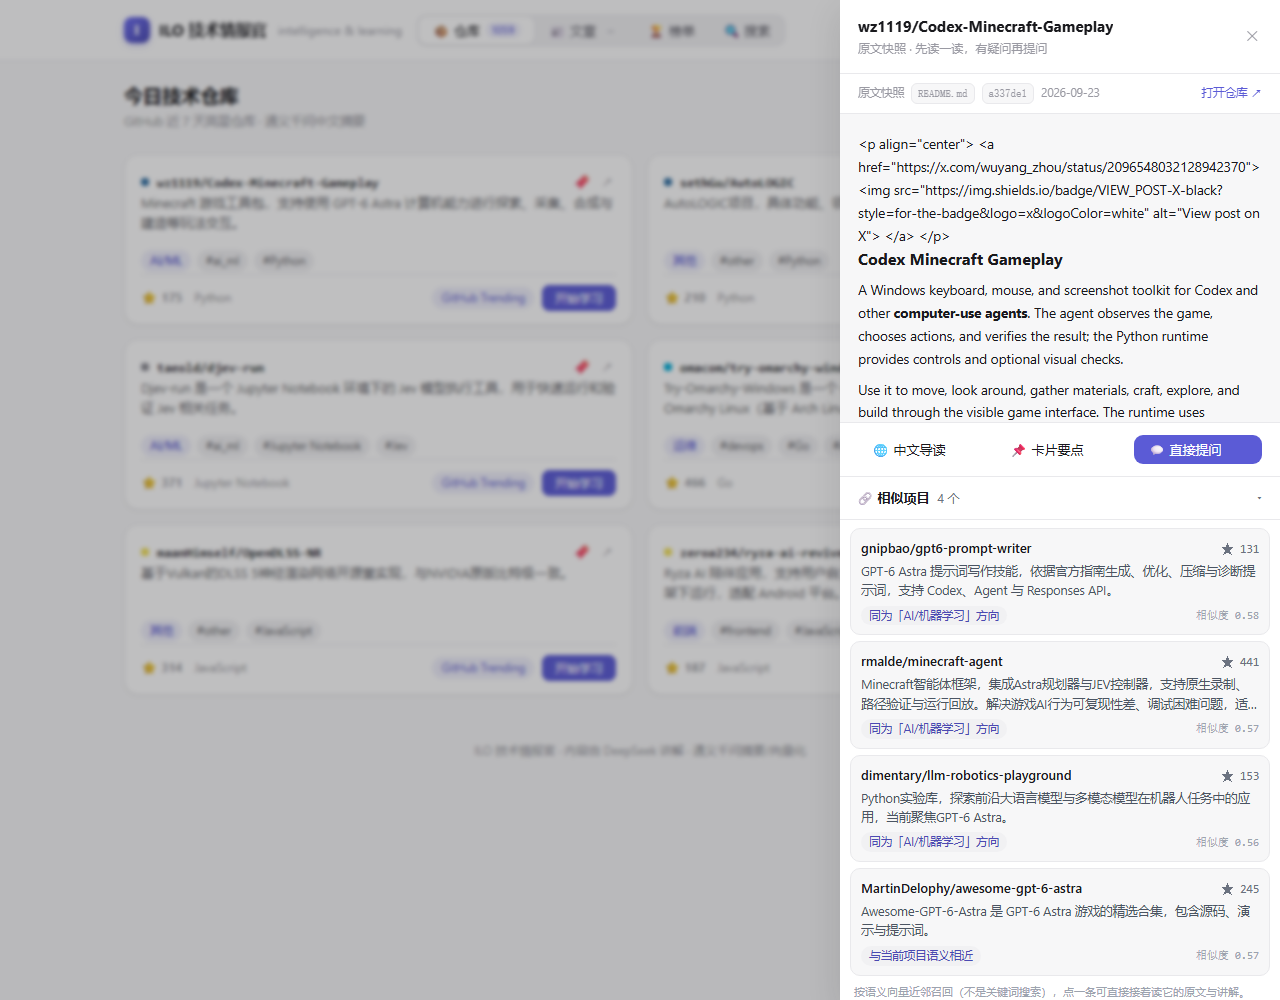
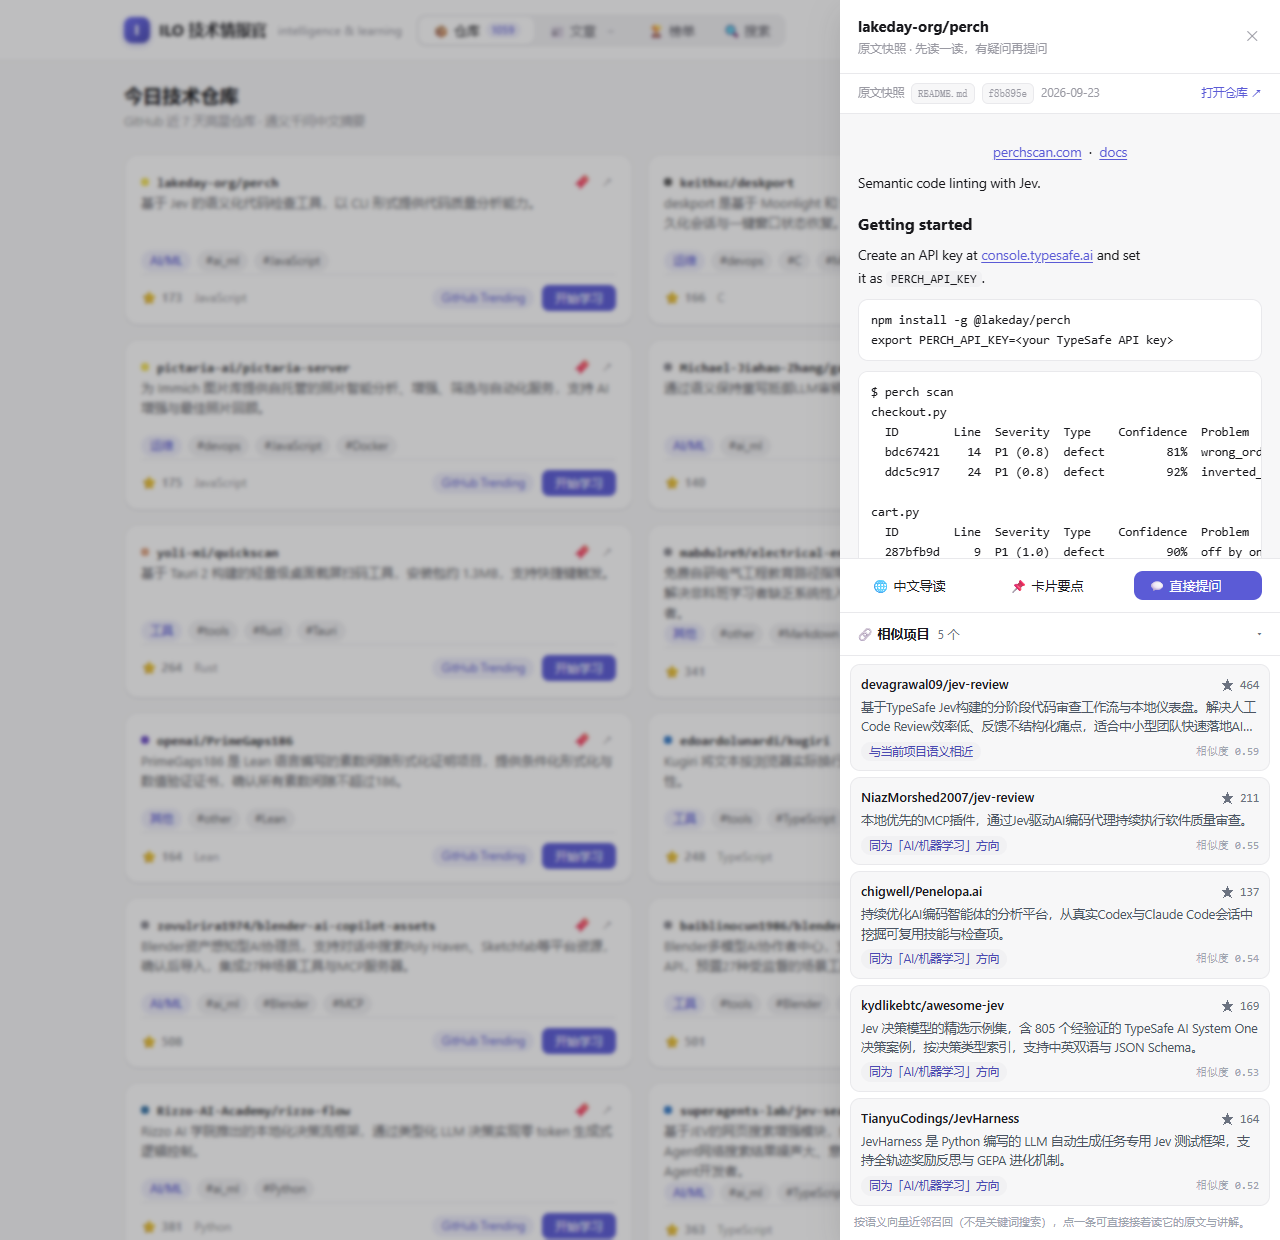
fix(markdown): 原文快照按标签渲染内联 HTML，不再把 README 的源码当正文
截图里「原文快照」把 `<p align="center">` / shields.io 徽章 / `<details>` 原样显示成
文字，因为 react-markdown 只挂了 remark 插件，不做 HTML 解析。

- 渲染管线加 rehype-raw -> rehype-sanitize（顺序不能反）：读的是任意第三方 README，
  只加 raw 等于把 script / onerror / javascript: 送进渲染树
- 白名单单独成 markdownHtmlSchema.ts：在 GitHub defaultSchema 上放开 align、
  details/summary，并把 script/style 整块 strip（否则脚本内容会以纯文本掉进正文）
- 关图片时连 <picture> 一起去掉，避免只剩空 source 节点
- 新增 npm run check:sanitize：跑一遍同一条管线，断言 HTML 被渲染且危险内容被清除，
  schema 从 src import，不另抄一份
- 重拍 docs/images/10-similar.png（原图里那一坨 HTML 源码没有了）

diff --git a/frontend/src/components/ui/MarkdownBody.tsx b/frontend/src/components/ui/MarkdownBody.tsx
@@ -1,6 +1,11 @@
+import type { ComponentProps } from 'react';
 import ReactMarkdown from 'react-markdown';
+import rehypeRaw from 'rehype-raw';
+import rehypeSanitize from 'rehype-sanitize';
 import remarkBreaks from 'remark-breaks';
 import remarkGfm from 'remark-gfm';
+
+import { markdownHtmlSchema } from './markdownHtmlSchema';
 
 interface MarkdownBodyProps {
   content: string;
@@ -14,19 +19,39 @@ interface MarkdownBodyProps {
 }
 
 /**
+ * 【为什么要放开原始 HTML】仓库 README 里满是 `<p align="center">`、shields.io 徽章、
+ * `<details>/<summary>` 折叠块、`<picture>` 响应式图。只挂 remark 插件时 react-markdown
+ * 不做 HTML 解析，这些标签会被当**纯文本**原样吐出来——抽屉里的「原文快照」出现过
+ * 一整坨 `<a href="..."><img src="...shields.io..."></a>` 直接显示给用户。
+ *
+ * 【为什么不只是加 rehype-raw】这段内容是任意第三方仓库的 README，不受我们控制。
+ * rehype-raw 会连 `<script>`、`onerror=`、`javascript:` 一起放进来，等于把 XSS 入口开到
+ * 内容区。所以必须紧跟 rehype-sanitize，白名单见 `./markdownHtmlSchema`。
+ */
+
+/**
  * Markdown 渲染，替代原 index.html 的手写 formatMessage 正则。
  * - remark-gfm：表格 / 任务列表 / 自动链接等 GFM 扩展
  * - remark-breaks：复现原实现「单个换行 => <br>」的行为
+ * - rehype-raw → rehype-sanitize：解析并白名单过滤内联 HTML（顺序不能反）
  *
  * 【为什么放共享 UI 层】学习抽屉的对话气泡与「我的 → 学习记录」里的对话回看都需要
  * 渲染同一批模型输出（同一份 `chat_messages`），两处必须长成一样；放在某个 feature 里
  * 就会被另一个 feature 反向依赖。
  */
 export function MarkdownBody({ content, allowImages = true }: MarkdownBodyProps) {
+  // 关掉图片时连 `<picture>` 一起去掉：它本身不渲染内容，留着只会剩下空的 source 节点
+  const components = allowImages
+    ? undefined
+    : ({ img: () => null, picture: () => null } satisfies ComponentProps<
+        typeof ReactMarkdown
+      >['components']);
+
   return (
     <ReactMarkdown
       remarkPlugins={[remarkGfm, remarkBreaks]}
-      components={allowImages ? undefined : { img: () => null }}
+      rehypePlugins={[rehypeRaw, [rehypeSanitize, markdownHtmlSchema]]}
+      components={components}
     >
       {content}
     </ReactMarkdown>

diff --git a/frontend/src/components/ui/markdownHtmlSchema.ts b/frontend/src/components/ui/markdownHtmlSchema.ts
@@ -1,0 +1,30 @@
+import { defaultSchema } from 'rehype-sanitize';
+
+/**
+ * 渲染第三方 Markdown 时的 HTML 白名单（GitHub defaultSchema + 少量放开）。
+ *
+ * 单独成文件是为了让 `scripts/check-markdown-sanitize.mjs` 能直接 import 这一份，
+ * 而不是在守卫脚本里再抄一遍 —— 抄一份就等于有了两个真相，改一处忘一处。
+ *
+ * 放开的三类：
+ * - `align`：README 里 `<p align="center">` / `<img align="left">` 极常见
+ * - `details` / `summary`：可折叠段落
+ * - `script` / `style` 进 strip：白名单外的元素默认「删标签留内容」，
+ *   脚本必须连内容一起删，否则 `alert(1)` 会以纯文本掉进正文
+ */
+export const markdownHtmlSchema = {
+  ...defaultSchema,
+  tagNames: [...(defaultSchema.tagNames ?? []), 'details', 'summary'],
+  strip: [...(defaultSchema.strip ?? []), 'script', 'style'],
+  attributes: {
+    ...defaultSchema.attributes,
+    '*': [...(defaultSchema.attributes?.['*'] ?? []), 'align'],
+    img: [
+      ...(defaultSchema.attributes?.img ?? []),
+      'align',
+      'width',
+      'height',
+      'loading',
+    ],
+  },
+};

diff --git a/README.md b/README.md
@@ -274,7 +274,7 @@ GitHub 的 Search API 只能按累计星数排，所以取回数据后要按 `st
 
 点任意一条会直接在**同一个抽屉里换上那张卡片**（重置会话、加载它的原文），可以 A → B → C 一路看下去，不必关掉抽屉回首页重新找。
 
-> 📸 相似项目 —— 抽屉底部折叠条，展开后给出理由与余弦相似度
+> 📸 相似项目 —— 读完「perch」的 README，抽屉底部「相似项目 5 个」展开：每条给理由 + 相似度
 >
 > <img src="docs/images/10-similar.png" alt="相似项目推荐" width="880">
 
@@ -397,6 +397,7 @@ ilo-agent-demo/
 │   ├── start_dev.py                 # 一键启动（依赖探测 → 前端 → 后端）
 │   └── requirements.txt
 ├── frontend/
+│   ├── scripts/                     # check-markdown-sanitize.mjs：HTML 白名单守卫
 │   └── src/
 │       ├── features/                # 按业务域切分，相互不 import
 │       │   ├── discovery/           # 首页、卡片、榜单、搜索、工具栏
@@ -431,6 +432,7 @@ ilo-agent-demo/
 | 首屏性能 | 候选池进程内缓存 + numpy 矩阵乘替换纯 Python 循环；`agent` 包 PEP 562 惰性导出，避免 import 就拖起 12 秒的重栈 |
 | 单端口同源 | FastAPI 直接托管前端产物并做 SPA 回退，跨域与 Cookie 问题一次性消失，部署只需一条隧道 |
 | 错误契约 | `ILOException` + 全局处理器产出 `{code, message, detail}`，路由声明 `response_model` 让错误信封进入 OpenAPI |
+| 第三方 HTML | 原文快照要渲染 README 的内联 HTML（居中块、徽章、折叠段），否则标签会被当纯文本吐出来；因此 `rehype-raw` 必须紧跟 `rehype-sanitize`（GitHub 同款白名单，`script`/`style` 整块 strip，`on*` 与 `javascript:` 清除），并由 `npm run check:sanitize` 守住这对约束 |
 
 ---
 
@@ -474,7 +476,7 @@ python -m pytest -m eval                     # 只跑 eval 门禁（会真实调
 
 `test_async_no_blocking_io.py` 专门守「异步路由里不许出现同步阻塞调用」，`test_timeout_budget.py` 顺带守住「每个配置项都必须在 `.env.example` 里出现」——这条守卫在我漏写配置文档时真的报过错。
 
-前端没有单测，只有 `tsc -b` 类型检查与 `npm run build`；界面用手动截图核对（桌面 1280 / 移动 390 两档）。
+前端没有单测，只有 `tsc -b` 类型检查、`npm run build`，以及 `npm run check:sanitize`——它跑一遍 Markdown 渲染管线，确认 README 里的内联 HTML 能被渲染、而 `script` / `on*` / `javascript:` 被清掉；界面用手动截图核对（桌面 1280 / 移动 390 两档）。
 
 ---
 
